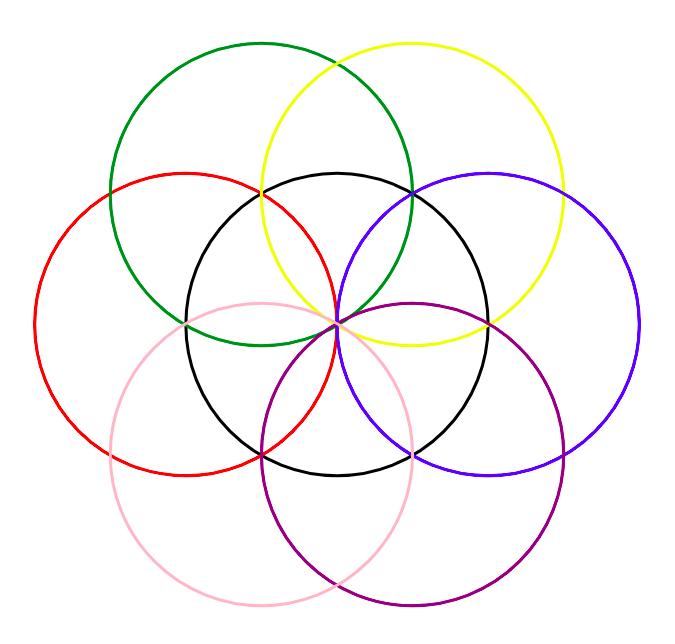
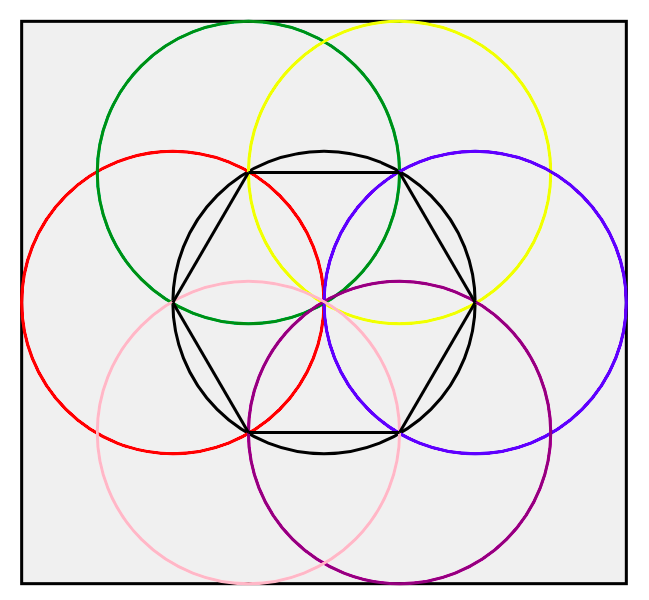
tp1 et 2 ready pour les B1

Changed region(s): [[0.0308, 0.03, 0.9861, 0.99], [0.4006, 0.57, 0.4314, 0.6], [0.4006, 0.39, 0.4314, 0.42]]

diff --git a/content/2021-2022/b1-gobelins/architecture/tp/tp2.md b/content/2021-2022/b1-gobelins/architecture/tp/tp2.md
@@ -11,8 +11,9 @@ weight: 11
 >   - Le format attendu pour le glossaire est libre (de préférence un format markdown)
 ## Mise en place du TP
 
-Récupérez le fichier [tp2.ova](/media/tp2.ova) et ouvrez le fichier .ova avec virtualBox.
+Si vous êtes chez vous, récupérez le fichier [tp2.ova](/media/tp2.ova) et ouvrez le fichier .ova avec virtualBox.
 
+Sinon, il est possible de se connecter sur la machine distante en tapant : tp2-VOTREPRENOM.henri.run
 
 
 ## Hackerman
@@ -36,12 +37,9 @@ Par ailleurs, nous avons réussi à mettre en place des malwares sur la machine,
 Nous les avons appelés : **les 5 clés**. 
 Chaque clé, mises bout à bout nous donnera le mot de passe du site hackers.h91.co.
 
-Nous avons laissé ces scripts dans un dossier de votre `home directory`.
-
+Nous avons laissé ces scripts dans un dossier caché de votre `home directory`. trouvez-le !
 
 ## Clé 1 : Retrouver les executables
-> **Aide :**
-> quelques commandes utiles : `ls`, `cd`, `man`
 
 Pour commencer, il faut retrouver les scripts laissé dans le `home directory` aussi connu sous le nom de `~`.
 Rendez-vous dans ce dossier.
@@ -57,8 +55,6 @@ $ ./test ARGUMENT1 ARGUMENT2 ARGUMENT3...
 Pour récupérer la première clé il faudra lancer l'exécution du fichier `KEY_1`. La même chose sera à faire pour les clés suivantes.
 
 ## Clé 2 : Créer des fichiers
-> **Aide :**
-> Quelques commandes utiles : `nano`, `mkdir`, `man`, `echo` `>`
 
 Pour la seconde clé, nous allons devoir injecter des fichiers du système, pour cela, il faudra créer un dossier `/security`
 et à l'intérieur, créer 2 fichiers : `1` et `2` qui auront respectivement comme contenu `1110 1011` et `0011 1001`
@@ -70,8 +66,6 @@ et à l'intérieur, créer 2 fichiers : `1` et `2` qui auront respectivement com
 Une fois cela fait, lancez le script `KEY_2`
 
 ## Clé 3 : Comptage
-> **Aide :**
-> Quelques commandes utiles : `rm`, `ls`, `cd`, `wc`, `man`
 
 {{< hint danger >}}
 Nous avons été repérés ! VITE il faut aller supprimer le dossier `security` créé précédemment !
@@ -81,9 +75,6 @@ Une fois qu'on aura le nombre de lettres, on pourra passer ce nombre en argument
 
 
 ## Clé 4 : ça se complique
-
-> **Aide :**
-> Quelques commandes utiles : `ping`, `chmod`,`ls`, `man`
 
 L'ennemi est malin ! Il a caché des informations sur un autre ordinateur mais on ne connait pas son adresse ip.
 
@@ -96,8 +87,6 @@ Nous avons un autre problème : Quelqu'un a corrompu notre script ! Il faut qu'o
 Une fois cela fait, nous pourrons passer l'IP en argument de `KEY_4`
 
 ## Clé 5 : Faille sur le site
-> **Aide :**
-> Quelques commandes utiles : `apt-get`, `curl`,`man`
 
 Nos ingénieurs essaient toujours d'accéder au site en parallèle, et l'un deux à trouver une faille : une url qui semblerait être publique.
 Cette url est [hackers.h91.co/last-key](https://hackers.h91.co/last-key) mais personne n'arrive à accéder au système.

diff --git a/content/2021-2022/b1-gobelins/architecture/tp/tp1.md b/content/2021-2022/b1-gobelins/architecture/tp/tp1.md
@@ -32,7 +32,7 @@ Pour les besoins du cours, il a été mis à disposition des machines ubuntu en 
 Pour accéder à la machine il faut ouvrir un terminal et taper la commande suivante :
 
 ```shell
-ssh ubuntu@VOTREPRENOM.tp1.henri.run
+ssh ubuntu@tp1-VOTREPRENOM.henri.run
 ```
 
 > Qu'est-ce que "ubuntu" dans la ligne de commande saisie précédemment ?
@@ -40,7 +40,7 @@ ssh ubuntu@VOTREPRENOM.tp1.henri.run
 le message suivant doit s'afficher :
 
 ```text
-The authenticity of host 'VOTREPRENOM.tp1.henri.run (1.2.3.4)' can't be established.
+The authenticity of host 'tp1-VOTREPRENOM.henri.run (1.2.3.4)' can't be established.
 ECDSA key fingerprint is SHA256:adjwEA8qrkxYRniJKq8XmKoQtkmAuwMBoNMHUviAgoM.
 Are you sure you want to continue connecting (yes/no/[fingerprint])? 
 ```

diff --git a/content/2021-2022/b2-gobelins/data-structures/tp/2-formats.md b/content/2021-2022/b2-gobelins/data-structures/tp/2-formats.md
@@ -142,7 +142,7 @@ si vous avez besoin d'une image de ressource elle se trouve ici : [cake.jpg](../
 
 ## Exercice 7
 
-En vous du code fourni dans l'exercice, dessinez cette rosace en svg.
+En vous aidant du code fourni dans l'exercice et du cours, dessinez cette rosace dans son rectangle en svg.
 
 ![](../tp2-resources/rosace.png)
 
@@ -152,6 +152,16 @@ En vous du code fourni dans l'exercice, dessinez cette rosace en svg.
 </svg>
 ```
 
+Les couleurs utilisées sont : 
+- `#f0f0f0`
+- `red`
+- `blue`
+- `black`
+- `green`
+- `yellow`
+- `purple`
+- `pink`
+- `transparent`
 > Hint n°1 : Pour visualiser votre travail, utilisez votre navigateur.
 
 > Hint n°2 : Pour trouver le centre du cercle, le caré de l'hypothénuse est égal à la somme des carrés des 2 autres cotés.
